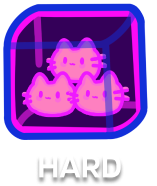
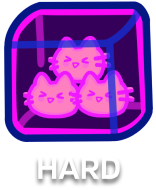
updated UIs and resize ratios

diff --git a/core/src/edu/cornell/gdiac/temporary/LevelSelect.java b/core/src/edu/cornell/gdiac/temporary/LevelSelect.java
@@ -33,14 +33,21 @@ public class LevelSelect implements Screen, InputProcessor, ControllerListener {
     /** Play button to display when done */
     private Texture playButton;
 
+
     /** Play button to display easy level*/
     private Texture easyButton;
+
+    private Texture easyButtonInactive;
 
     /** Play button to display medium level */
     private Texture mediumButton;
 
+    private Texture mediumButtonInactive;
+
     /** Play button to display hard level */
     private Texture hardButton;
+
+    private Texture hardButtonInactive;
 
     private Texture levelBackground;
 
@@ -189,10 +196,15 @@ public class LevelSelect implements Screen, InputProcessor, ControllerListener {
         albumScales = new float[allLevels.length];
         gameplayController = new GameplayController(canvas.getWidth(),canvas.getHeight());
         albumCovers = new Texture[numSongs];
-        playButton = directory.getEntry("ghost-play",Texture.class);
+        playButton = directory.getEntry("play-active",Texture.class);
         easyButton = directory.getEntry("easy",Texture.class);
         mediumButton = directory.getEntry("medium",Texture.class);
         hardButton = directory.getEntry("hard",Texture.class);
+
+        easyButtonInactive = directory.getEntry("easy-inactive",Texture.class);
+        mediumButtonInactive= directory.getEntry("medium-inactive",Texture.class);
+        hardButtonInactive = directory.getEntry("hard-inactive",Texture.class);
+
         goLeft = directory.getEntry("level-select-left",Texture.class);
         goRight = directory.getEntry("level-select-right",Texture.class);
         levelBackground = directory.getEntry("level-select-background", Texture.class);
@@ -212,8 +224,8 @@ public class LevelSelect implements Screen, InputProcessor, ControllerListener {
         float sy = ((float)height)/STANDARD_HEIGHT;
 
         scale = (sx < sy ? sx : sy);
-        centerScale = 0.65f*scale;
-        cornerScale = 0.45f*scale;
+        centerScale = 0.6f*scale;
+        cornerScale = 0.4f*scale;
         goBackCoords=new Vector2 (width/12f, height*9f/10f);
         goLeftCoords = new Vector2(width/10f,height/2f);
         goRightCoords = new Vector2(width-(width/10f),height/2f);
@@ -262,16 +274,16 @@ public class LevelSelect implements Screen, InputProcessor, ControllerListener {
                 goBackCoords.x, goBackCoords.y, 0, WON_BUTTON_SCALE*scale, WON_BUTTON_SCALE*scale);
 
         // draw easy, medium, and hard buttons
-        Color easyButtonTint = (selectedDifficulty == EASY ? Color.GRAY: Color.WHITE);
-        canvas.draw(easyButton, easyButtonTint, easyButton.getWidth()/2, easyButton.getHeight()/2,
+        Texture easyButtonTemp = (selectedDifficulty == EASY ? easyButton: easyButtonInactive);
+        canvas.draw(easyButtonTemp, Color.WHITE, easyButtonTemp.getWidth()/2, easyButtonTemp.getHeight()/2,
                 easyButtonCoords.x, easyButtonCoords.y, 0, 0.5f*scale, 0.5f*scale);
 
-        Color medButtonTint = (selectedDifficulty == MEDIUM ? Color.GRAY: Color.WHITE);
-        canvas.draw(mediumButton, medButtonTint, mediumButton.getWidth()/2, mediumButton.getHeight()/2,
+        Texture medButtonTemp = (selectedDifficulty == MEDIUM ? mediumButton: mediumButtonInactive);
+        canvas.draw(medButtonTemp, Color.WHITE, mediumButton.getWidth()/2, mediumButton.getHeight()/2,
                 mediumButtonCoords.x, mediumButtonCoords.y, 0, 0.5f*scale, 0.5f*scale);
 
-        Color hardButtonTint = (selectedDifficulty == HARD ? Color.GRAY: Color.WHITE);
-        canvas.draw(hardButton, hardButtonTint, hardButton.getWidth()/2, hardButton.getHeight()/2,
+        Texture hardButtonTemp = (selectedDifficulty == HARD ? hardButton: hardButtonInactive);
+        canvas.draw(hardButtonTemp, Color.WHITE, hardButton.getWidth()/2, hardButton.getHeight()/2,
                 hardButtonCoords.x, hardButtonCoords.y, 0, 0.5f*scale, 0.5f*scale);
 
         // draw each song
@@ -308,7 +320,7 @@ public class LevelSelect implements Screen, InputProcessor, ControllerListener {
         // draw play button
         Color playButtonTint = (playPressed ? Color.GRAY: Color.WHITE);
         canvas.draw(playButton, playButtonTint, playButton.getWidth()/2, playButton.getHeight()/2,
-                    playButtonCoords.x, playButtonCoords.y, 0, BUTTON_SCALE*scale, BUTTON_SCALE*scale);
+                    playButtonCoords.x, playButtonCoords.y, 0, BUTTON_SCALE*scale*0.5f, BUTTON_SCALE*scale*0.5f);
 
         canvas.end();
     }
